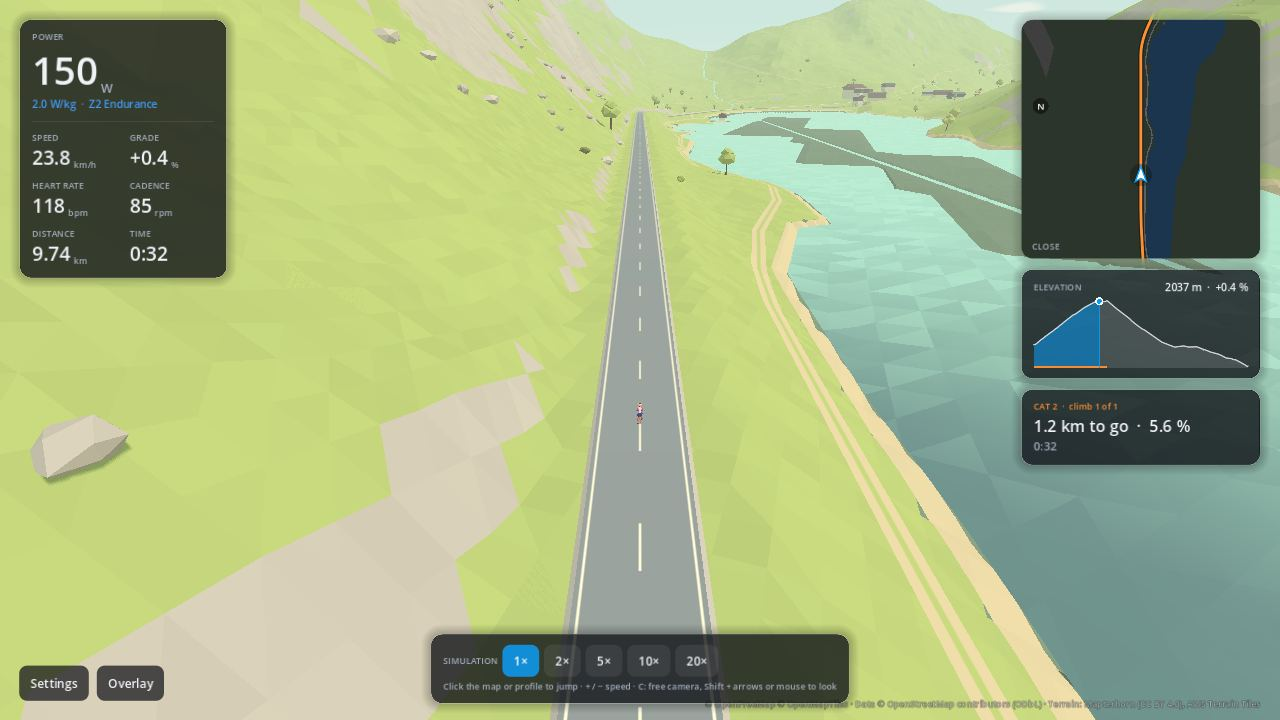
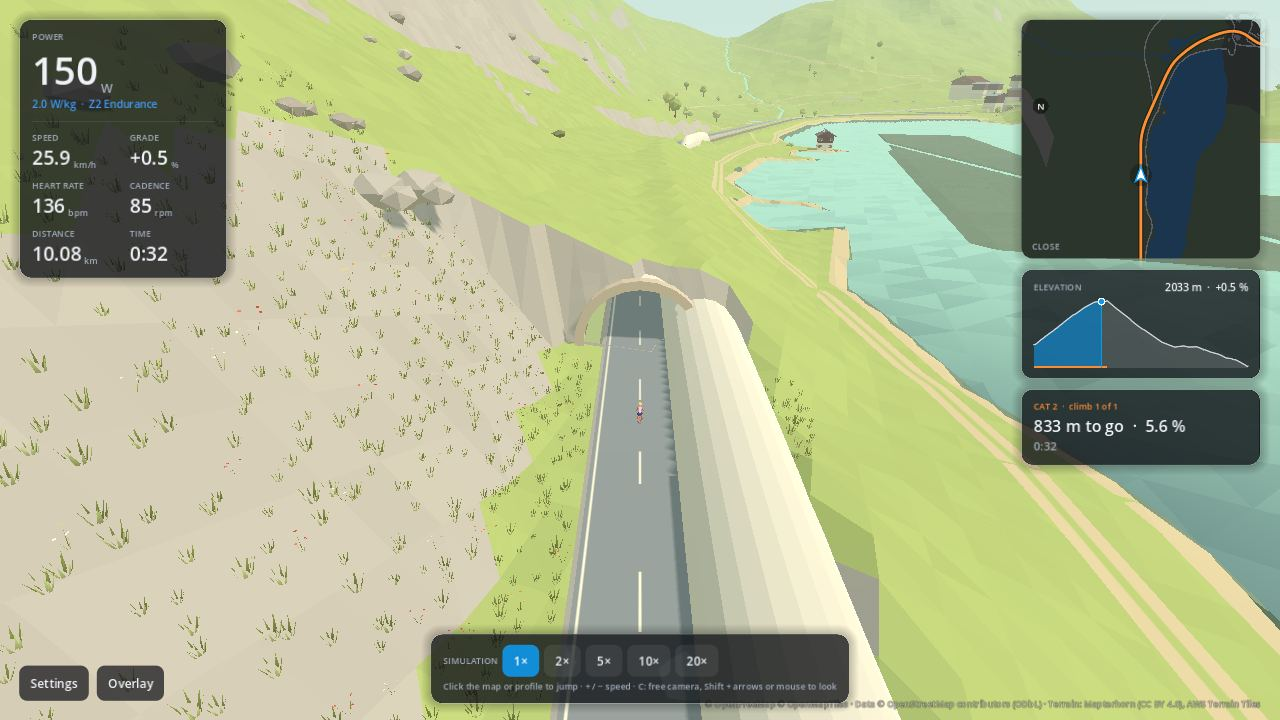
fix(routes): every piece of a tunnel followed through comes with the route (#166)
The way through a tunnel of several map pieces brought only the first piece's
structure, so the route ran on the tunnel's line but in a cutting on the
surface; now all of them join the roads used, and the tunnel is built.

diff --git a/core/torqa-routes/src/snap.rs b/core/torqa-routes/src/snap.rs
@@ -216,16 +216,16 @@ pub(crate) fn to_roads(track: &[RawPoint], roads: &[Road]) -> Snapped {
 
 /// Where two roads meet, with the positions there on each.
 type Meeting = ((f64, f64), Match, Match);
-/// A way along roads as points, with the tunnel's road if it goes through one.
-type Way = (Vec<(f64, f64)>, Option<usize>);
+/// A way along roads as points, with the roads of the tunnel it goes through, if any.
+type Way = (Vec<(f64, f64)>, Vec<usize>);
 
 /// A way into a tunnel being followed through (`tunnel_way`): the piece of it reached, the
-/// points up to it, where they enter it, and the first piece entered.
+/// points up to it, where they enter it, and the pieces entered so far.
 struct Entry {
     tunnel: usize,
     path: Vec<(f64, f64)>,
     into: Match,
-    first: usize,
+    pieces: Vec<usize>,
 }
 
 /// The roads, projected and indexed.
@@ -495,7 +495,7 @@ impl<'a> Network<'a> {
         };
         // Only a tunnel takes the sky away; elsewhere the points off road were ridden.
         let in_tunnel = |road: usize| self.roads[road].structure == Some(StructureKind::Tunnel);
-        if tunnel.is_none() && !in_tunnel(from.road) && !in_tunnel(to.road) {
+        if tunnel.is_empty() && !in_tunnel(from.road) && !in_tunnel(to.road) {
             return false;
         }
         let recorded = path_length(&positions[start - 1..=end]);
@@ -504,11 +504,11 @@ impl<'a> Network<'a> {
 
     /// The way along roads from `from` to `to`: along their road's bends, round the junction
     /// where the track changes road, through a tunnel joining their roads (`tunnel_way`, with
-    /// its road), or straight where none of that holds. `None` where the way would be a detour
-    /// (`MAX_DETOUR`): a loop of the road between the two is not what was ridden.
+    /// its roads), or straight where none of that holds. `None` where the way would be a
+    /// detour (`MAX_DETOUR`): a loop of the road between the two is not what was ridden.
     fn way(&self, from: Match, to: Match) -> Option<Way> {
         let mut path = vec![from.at];
-        let mut tunnel = None;
+        let mut tunnel = Vec::new();
         if from.road == to.road {
             path.extend(self.bends(from, to));
         } else if let Some((junction, on_from, on_to)) = self.meet(from.road, to.road, Some(to.at))
@@ -518,9 +518,9 @@ impl<'a> Network<'a> {
             path.extend(self.bends(from, on_from));
             path.push(junction);
             path.extend(self.bends(on_to, to));
-        } else if let Some((through, road)) = self.tunnel_way(from, to) {
+        } else if let Some((through, pieces)) = self.tunnel_way(from, to) {
             path.extend(through);
-            tunnel = Some(road);
+            tunnel = pieces;
         }
         path.push(to.at);
         (path_length(&path) <= distance(from.at, to.at).max(1.0) * MAX_DETOUR)
@@ -528,10 +528,10 @@ impl<'a> Network<'a> {
     }
 
     /// The way from `from` to `to` through a tunnel joining their roads: the points between
-    /// the two, and the tunnel's road where the way leaves `from`'s. The map splits a way where
-    /// it enters a tunnel, and at tile borders, so the tunnel may be several roads meeting end
-    /// to end (`TUNNEL_PIECES` at most); the shortest way where several lead through.
-    fn tunnel_way(&self, from: Match, to: Match) -> Option<(Vec<(f64, f64)>, usize)> {
+    /// the two, and the tunnel's roads. The map splits a way where it enters a tunnel, and at
+    /// tile borders, so the tunnel may be several roads meeting end to end (`TUNNEL_PIECES` at
+    /// most); the shortest way where several lead through.
+    fn tunnel_way(&self, from: Match, to: Match) -> Option<Way> {
         let mut best: Option<(f64, Way)> = None;
         // Ways into the tunnels so far: the tunnel, the points up to it and where they enter it.
         let mut frontier: Vec<Entry> = Vec::new();
@@ -546,7 +546,7 @@ impl<'a> Network<'a> {
                     tunnel,
                     path,
                     into,
-                    first: tunnel,
+                    pieces: vec![tunnel],
                 });
             }
         }
@@ -561,7 +561,7 @@ impl<'a> Network<'a> {
                     through.extend(self.bends(on_to, to));
                     let length = path_length(&through);
                     if best.as_ref().is_none_or(|b| length < b.0) {
-                        best = Some((length, (through, Some(entry.first))));
+                        best = Some((length, (through, entry.pieces.clone())));
                     }
                     continue;
                 }
@@ -575,11 +575,13 @@ impl<'a> Network<'a> {
                         path.extend(self.bends(entry.into, out_of));
                         path.push(joint);
                         visited.push(other);
+                        let mut pieces = entry.pieces.clone();
+                        pieces.push(other);
                         next.push(Entry {
                             tunnel: other,
                             path,
                             into,
-                            first: entry.first,
+                            pieces,
                         });
                     }
                 }
@@ -589,7 +591,7 @@ impl<'a> Network<'a> {
             }
             frontier = next;
         }
-        best.and_then(|(_, (through, tunnel))| tunnel.map(|t| (through, t)))
+        best.map(|(_, way)| way)
     }
 
     /// The way from `from` to `to` (the positions on roads of two consecutive points `ends`)
@@ -938,9 +940,11 @@ mod tests {
         let every_5 = |from: i32, to: i32| -> Vec<(f64, f64)> {
             (from..=to).map(|i| arc(f64::from(i) * 5.0)).collect()
         };
+        // The tunnel in two pieces, as a tile border cuts it.
         let roads = [
             road(&every_5(0, 2)),
-            tunnel(&every_5(2, 16)),
+            tunnel(&every_5(2, 9)),
+            tunnel(&every_5(9, 16)),
             road(&every_5(16, 18)),
         ];
         let mut track: Vec<RawPoint> = (0..=2).map(|i| point2(arc(f64::from(i) * 5.0))).collect();
@@ -962,8 +966,8 @@ mod tests {
         }
         // ...as long as the road, not the chords between the wandering points...
         assert!((length(&line) - std::f64::consts::FRAC_PI_2 * 300.0).abs() < 5.0);
-        // ...and the tunnel ridden comes with it.
-        assert_eq!(snapped.structures.len(), 1, "{:?}", snapped.structures);
+        // ...and the tunnel ridden comes with it, both pieces.
+        assert_eq!(snapped.structures.len(), 2, "{:?}", snapped.structures);
     }
 
     #[test]
